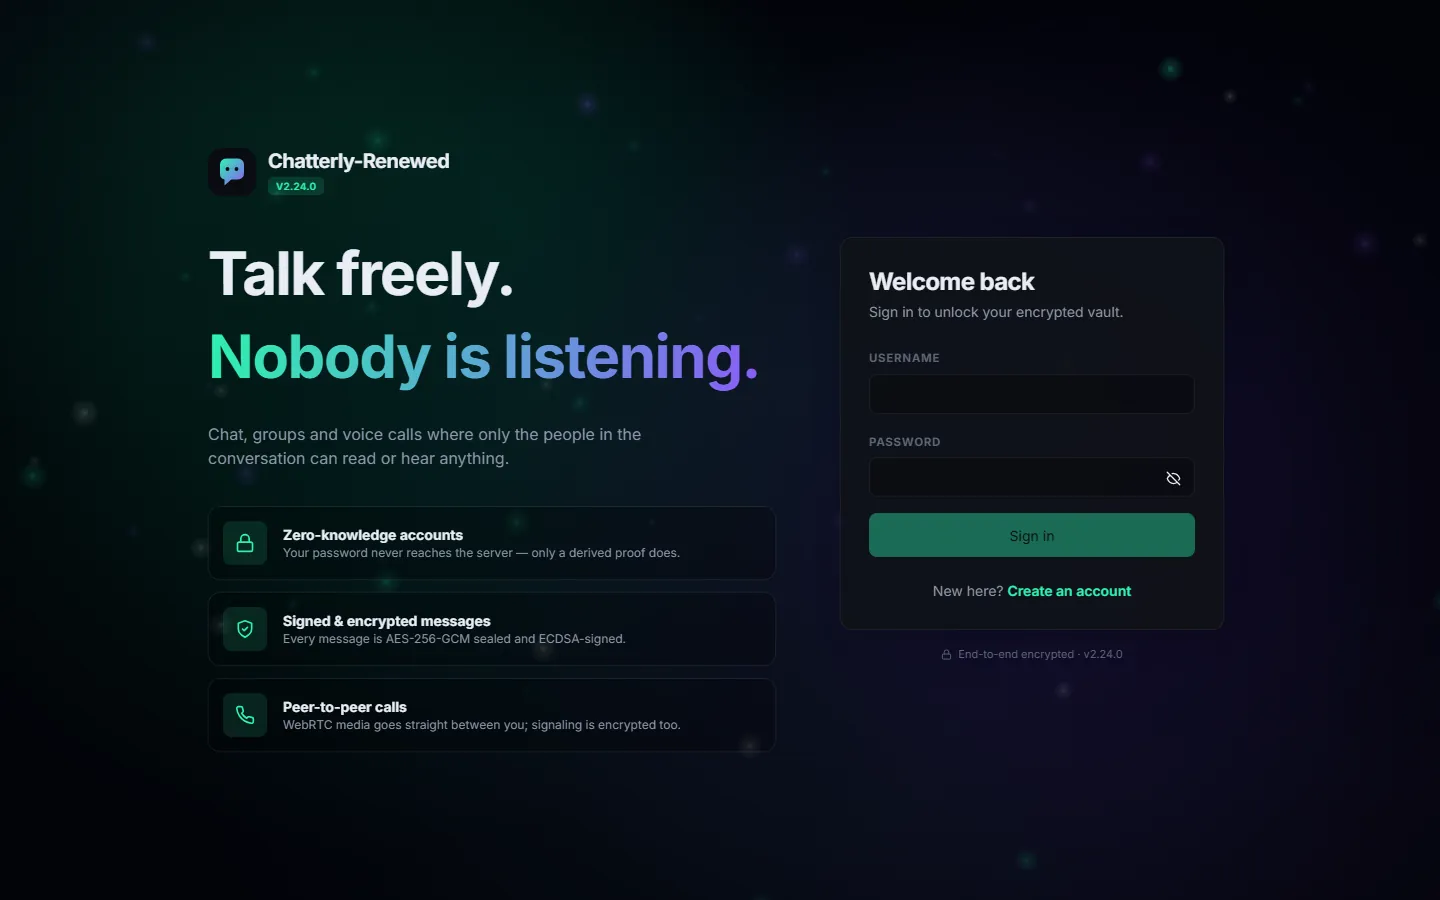
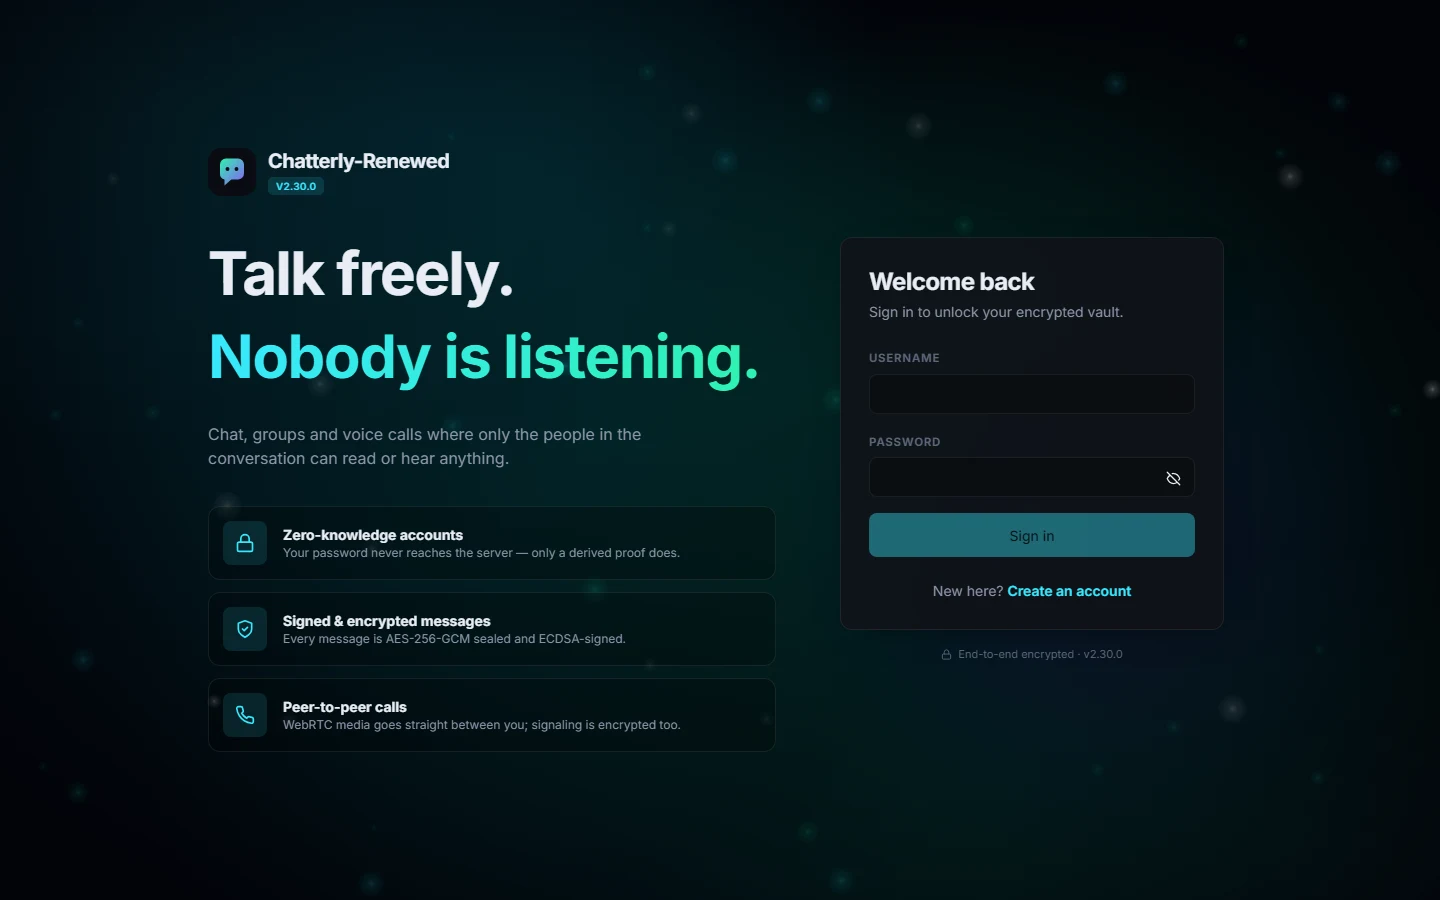
Fixes

diff --git a/src/data/projects.ts b/src/data/projects.ts
@@ -62,47 +62,43 @@ const PUBLISHED: Translation = { en: "PUBLISHED", es: "PUBLICADO" };
 
 export const projects: Project[] = [
   {
-    title: "Spinly",
+    title: "Chatterly Renewed",
     featured: true,
     status: DEPLOYED,
     description: {
-      en: "A prize wheel for giveaways, raffles and everyday decisions: custom themes and presets, your own music, knockout tournaments and accounts that sync across devices.",
-      es: "Una ruleta para sorteos y decisiones del día a día: temas y presets propios, tu música, torneos por eliminatorias y cuentas que se sincronizan entre dispositivos.",
+      en: "A self-hosted, end-to-end encrypted chat: messages, groups, voice and video calls and a Windows app. The server only stores ciphertext.",
+      es: "Un chat autoalojado y cifrado de extremo a extremo: mensajes, grupos, llamadas de voz y vídeo y app para Windows. El servidor solo guarda texto cifrado.",
     },
     contribution: {
-      en: "Designed and built the whole app: a pure-CSS wheel, Web Audio sound effects, beat-synced lights and a Supabase backend with anonymous accounts and Row Level Security.",
-      es: "Diseñé y desarrollé toda la app: ruleta solo con CSS, efectos de sonido con Web Audio, luces sincronizadas con el ritmo y backend en Supabase con cuentas anónimas y Row Level Security.",
+      en: "Built it all: Angular front end, Fastify and SQLite back end, WebCrypto encryption, WebRTC calls, an Electron app and Docker deployment.",
+      es: "Lo desarrollé todo: front en Angular, back en Fastify y SQLite, cifrado con WebCrypto, llamadas WebRTC, app Electron y despliegue con Docker.",
     },
     learned: {
-      en: "Audio synthesis and analysis in the browser, Web Workers, and syncing local-first data with Supabase.",
-      es: "Síntesis y análisis de audio en el navegador, Web Workers y sincronización de datos local-first con Supabase.",
+      en: "Encryption in practice, security testing, WebRTC and shipping with Docker and Electron.",
+      es: "Cifrado en la práctica, pruebas de seguridad, WebRTC y publicar con Docker y Electron.",
     },
-    tech: ["React", "TypeScript", "Supabase", "PostgreSQL", "Vercel"],
-    image: spinly,
-    github: "https://github.com/Jondals/Spinly",
-    demo: "https://spinly-psi.vercel.app/",
-  },
-
-  {
-    title: "QuizMania",
-    featured: true,
-    status: DEPLOYED,
-    description: {
-      en: "A trivia game played on a slot machine: spin for a topic, pick one of five modes, challenge friends in Versus duels and climb the leagues and rankings.",
-      es: "Un juego de trivia con tragaperras: gira para elegir tema, escoge entre cinco modos, reta a tus amigos en duelos Versus y sube en las ligas y rankings.",
-    },
-    contribution: {
-      en: "Built the game in TypeScript with a custom build script, synthesized sounds, 30 topics and a Supabase backend: accounts, friends, rankings and server-side score validation.",
-      es: "Desarrollé el juego en TypeScript con un script de build propio, sonidos sintetizados, 30 temas y un backend en Supabase: cuentas, amigos, rankings y validación de puntuaciones en el servidor.",
-    },
-    learned: {
-      en: "PostgreSQL functions and Row Level Security, designing a fair scoring system and shipping a typed codebase without a framework.",
-      es: "Funciones de PostgreSQL y Row Level Security, diseñar un sistema de puntos justo y mantener una base de código tipada sin framework.",
-    },
-    tech: ["TypeScript", "Supabase", "PostgreSQL", "HTML", "CSS", "Vercel"],
-    image: quizMania,
-    github: "https://github.com/Jondals/QuizMania",
-    demo: "https://quiz-mania-blond.vercel.app/",
+    tech: ["Angular", "TypeScript", "Node.js", "Fastify", "SQLite", "WebRTC", "Electron", "Docker"],
+    image: chatterlyRenewed,
+    gallery: [
+      {
+        image: chatterlyRenewedLogin,
+        alt: { en: "The sign-in screen of Chatterly Renewed", es: "La pantalla de entrada de Chatterly Renewed" },
+      },
+      {
+        image: chatterlyRenewedCall,
+        alt: { en: "An end-to-end encrypted voice call", es: "Una llamada de voz cifrada de extremo a extremo" },
+      },
+      {
+        image: chatterlyRenewedWheel,
+        alt: { en: "A prize wheel and a tournament champion in a chat", es: "Una ruleta y el campeón de un torneo en un chat" },
+      },
+      {
+        image: chatterlyRenewedTournament,
+        alt: { en: "A knockout tournament played with wheels", es: "Un torneo por eliminatorias jugado con ruletas" },
+      },
+    ],
+    github: "https://github.com/Jondals/ChatterlyRenewed",
+    demo: "https://chatterlyrenewed.duckdns.org",
   },
 
   {
@@ -128,51 +124,47 @@ export const projects: Project[] = [
   },
 
   {
-    title: "Chatterly Renewed",
+    title: "QuizMania",
     featured: true,
-    status: IN_DEVELOPMENT,
+    status: DEPLOYED,
     description: {
-      en: "An end-to-end encrypted chat that I host myself: messages, groups, voice and video calls, wheels and a Windows app. The server only stores ciphertext and cannot read or listen to anything.",
-      es: "Un chat cifrado de extremo a extremo que alojo yo mismo: mensajes, grupos, llamadas de voz y vídeo, ruletas y app para Windows. El servidor solo guarda texto cifrado y no puede leer ni escuchar nada.",
-    },
-    motivation: {
-      en: "Understand how private messengers work and have a chat that nobody can read.",
-      es: "Entender cómo funcionan los mensajeros privados y tener un chat que nadie pueda leer.",
-    },
-    purpose: {
-      en: "A free, self-hosted, Discord-style app where privacy is part of the design.",
-      es: "Una app gratuita, autoalojada y al estilo Discord donde la privacidad es parte del diseño.",
+      en: "A trivia game played on a slot machine: spin for a topic, pick one of five modes, challenge friends in Versus duels and climb the leagues and rankings.",
+      es: "Un juego de trivia con tragaperras: gira para elegir tema, escoge entre cinco modos, reta a tus amigos en duelos Versus y sube en las ligas y rankings.",
     },
     contribution: {
-      en: "Built it all: Angular and Tailwind front end, Fastify and SQLite back end, WebCrypto encryption, WebRTC calls with a TURN relay, an Electron app and Docker deployment with automated tests.",
-      es: "Lo desarrollé todo: front en Angular y Tailwind, back en Fastify y SQLite, cifrado con WebCrypto, llamadas WebRTC con relay TURN, app Electron y despliegue con Docker con tests automáticos.",
+      en: "Built the game in TypeScript with a custom build script, synthesized sounds, 30 topics and a Supabase backend: accounts, friends, rankings and server-side score validation.",
+      es: "Desarrollé el juego en TypeScript con un script de build propio, sonidos sintetizados, 30 temas y un backend en Supabase: cuentas, amigos, rankings y validación de puntuaciones en el servidor.",
     },
     learned: {
-      en: "Encryption in practice (keys, signatures, group-key rotation), security testing like a hostile account, WebRTC, performance on weak phones and shipping with Docker and Electron.",
-      es: "Cifrado en la práctica (claves, firmas, rotación de claves de grupo), probar la seguridad como una cuenta hostil, WebRTC, rendimiento en móviles flojos y publicar con Docker y Electron.",
+      en: "PostgreSQL functions and Row Level Security, designing a fair scoring system and shipping a typed codebase without a framework.",
+      es: "Funciones de PostgreSQL y Row Level Security, diseñar un sistema de puntos justo y mantener una base de código tipada sin framework.",
     },
-    tech: ["Angular", "TypeScript", "Tailwind CSS", "Node.js", "Fastify", "SQLite", "WebRTC", "Electron", "Docker", "GitHub Actions"],
-    image: chatterlyRenewed,
-    gallery: [
-      {
-        image: chatterlyRenewedLogin,
-        alt: { en: "The sign-in screen of Chatterly Renewed", es: "La pantalla de entrada de Chatterly Renewed" },
-      },
-      {
-        image: chatterlyRenewedCall,
-        alt: { en: "An end-to-end encrypted voice call", es: "Una llamada de voz cifrada de extremo a extremo" },
-      },
-      {
-        image: chatterlyRenewedWheel,
-        alt: { en: "A prize wheel and a tournament champion in a chat", es: "Una ruleta y el campeón de un torneo en un chat" },
-      },
-      {
-        image: chatterlyRenewedTournament,
-        alt: { en: "A knockout tournament played with wheels", es: "Un torneo por eliminatorias jugado con ruletas" },
-      },
-    ],
-    github: "https://github.com/Jondals/ChatterlyRenewed",
-    demo: "https://chatterlyrenewed.duckdns.org",
+    tech: ["TypeScript", "Supabase", "PostgreSQL", "HTML", "CSS", "Vercel"],
+    image: quizMania,
+    github: "https://github.com/Jondals/QuizMania",
+    demo: "https://quiz-mania-blond.vercel.app/",
+  },
+
+  {
+    title: "Spinly",
+    featured: true,
+    status: DEPLOYED,
+    description: {
+      en: "A prize wheel for giveaways, raffles and everyday decisions: custom themes and presets, your own music, knockout tournaments and accounts that sync across devices.",
+      es: "Una ruleta para sorteos y decisiones del día a día: temas y presets propios, tu música, torneos por eliminatorias y cuentas que se sincronizan entre dispositivos.",
+    },
+    contribution: {
+      en: "Designed and built the whole app: a pure-CSS wheel, Web Audio sound effects, beat-synced lights and a Supabase backend with anonymous accounts and Row Level Security.",
+      es: "Diseñé y desarrollé toda la app: ruleta solo con CSS, efectos de sonido con Web Audio, luces sincronizadas con el ritmo y backend en Supabase con cuentas anónimas y Row Level Security.",
+    },
+    learned: {
+      en: "Audio synthesis and analysis in the browser, Web Workers, and syncing local-first data with Supabase.",
+      es: "Síntesis y análisis de audio en el navegador, Web Workers y sincronización de datos local-first con Supabase.",
+    },
+    tech: ["React", "TypeScript", "Supabase", "PostgreSQL", "Vercel"],
+    image: spinly,
+    github: "https://github.com/Jondals/Spinly",
+    demo: "https://spinly-psi.vercel.app/",
   },
 
   {

diff --git a/src/styles/global.css b/src/styles/global.css
@@ -136,11 +136,8 @@ html[data-scene="contact"] .page-bg { --scene-a: #f472b6; --scene-b: #a855f7; }
 }
 
 .page-stars {
-  --star-color: #ffffff;
-  /* Gradient instead of a solid color: contrast checkers do not read it as a text background */
-  background-image: linear-gradient(var(--star-color), var(--star-color));
-  mask-size: var(--tile) var(--tile);
-  mask-repeat: repeat;
+  background-size: var(--tile) var(--tile);
+  background-repeat: repeat;
 }
 
 .page-stars.twinkle {
@@ -249,13 +246,13 @@ html.cursor-hover.cursor-down .cursor-orb::before {
 .site-header {
   background-color: color-mix(in srgb, var(--bg-primary) 0%, transparent);
   border-bottom: 1px solid color-mix(in srgb, var(--text-primary) 0%, transparent);
-  transition: background-color 0.6s ease, border-color 0.6s ease, backdrop-filter 0.6s ease;
+  transition: background-color 0.6s ease, border-color 0.6s ease;
 }
 
 .site-header.is-scrolled {
-  background-color: color-mix(in srgb, var(--bg-primary) 86%, transparent);
+  /* No backdrop blur: blurring the animated background behind the header on every scroll frame is costly, so it is a nearly opaque color instead */
+  background-color: color-mix(in srgb, var(--bg-primary) 94%, transparent);
   border-color: color-mix(in srgb, var(--text-primary) 8%, transparent);
-  backdrop-filter: blur(12px);
 }
 
 /* ---------- Scroll entrance animation ---------- */
